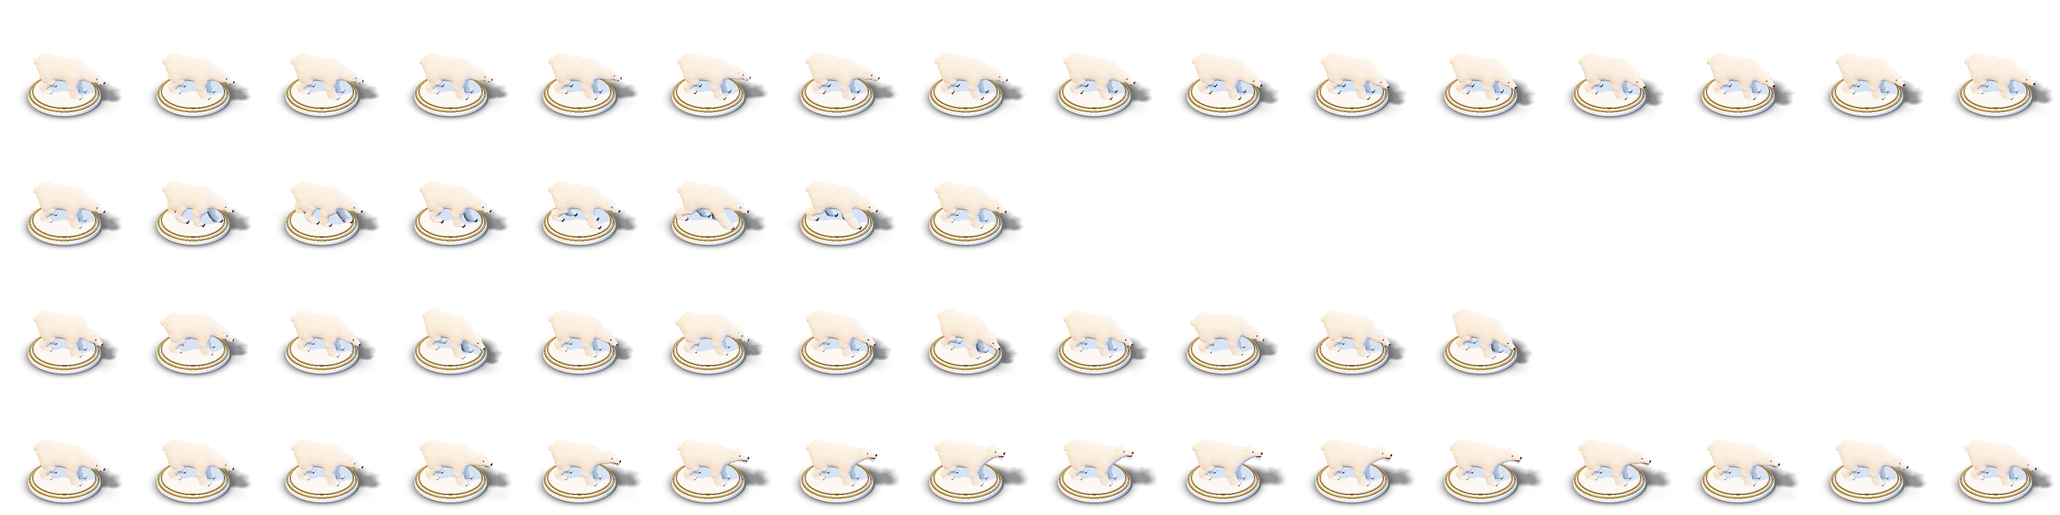
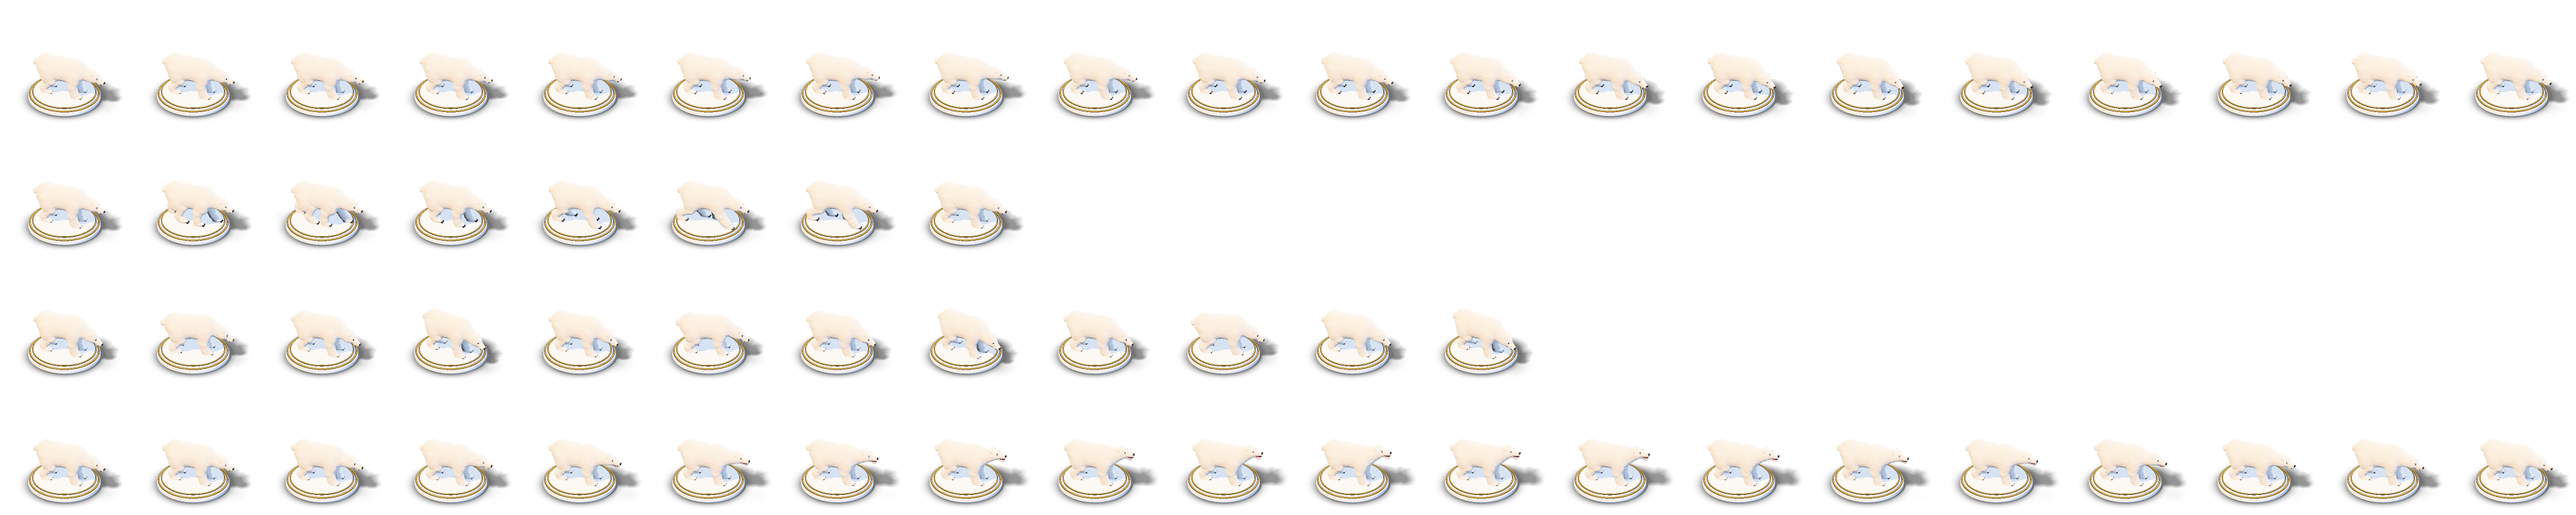
polar bear figurine: head movements a little slower (idle 20 frames = 2 s, win 20 frames = 1.67 s); sprites rebuilt, loops checked

diff --git a/app/tools/sprites/build.py b/app/tools/sprites/build.py
@@ -66,7 +66,9 @@ BASE_ON_SQUARE = 0.8            # the base's diameter in squares
 ANIMS = [("idle", 16, 10, True), ("move", 8, 24, False), ("blocked", 12, 12, True), ("win", 16, 12, True)]
 # figures whose idle is slower than 1.6 s: a longer loop (the owl turning its head)
 ANIMS_FOR = {"ice_basic_minmax": [("idle", 32, 8, True)] + ANIMS[1:],
-             "dino_nnue193": [("idle", 32, 8, True)] + ANIMS[1:]}    # the pteranodon's standing clip, 4 s
+             "dino_nnue193": [("idle", 32, 8, True)] + ANIMS[1:],    # the pteranodon's standing clip, 4 s
+             # the polar bear's head (sway, sniff, roar) a little slower: 2 s and 1.67 s instead of 1.6 s and 1.33 s
+             "ice_dev": [("idle", 20, 10, True), ANIMS[1], ANIMS[2], ("win", 20, 12, True)]}
 NAMES = {"sentinel": "Sentinelle", "human": "Humain", "tin_toy": "Jouet m\u00e9canique", "roller": "Roulix",
          "dicer": "T\u00eate de d\u00e9", "tree_bot": "Arborescent", "retro": "R\u00e9tro 1955", "crt": "Cathodique",
          "geometer": "G\u00e9om\u00e8tre", "android": "Androïde", "core": "Noyau",
